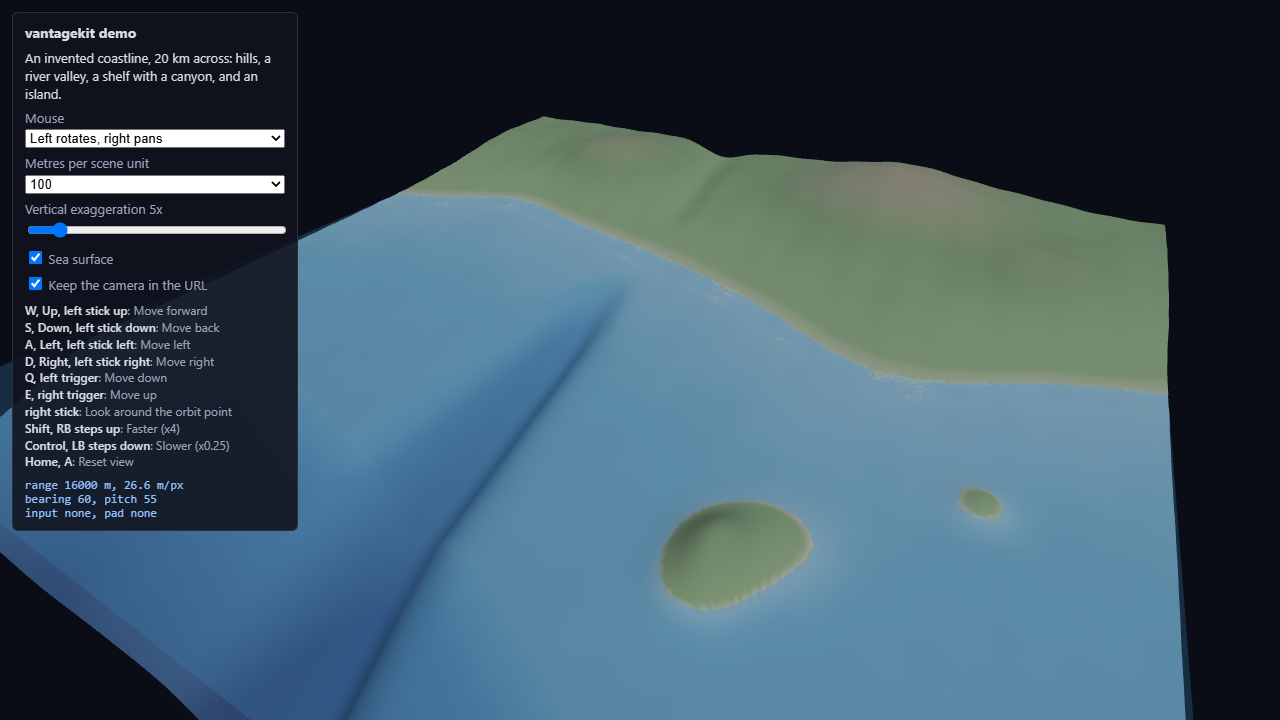
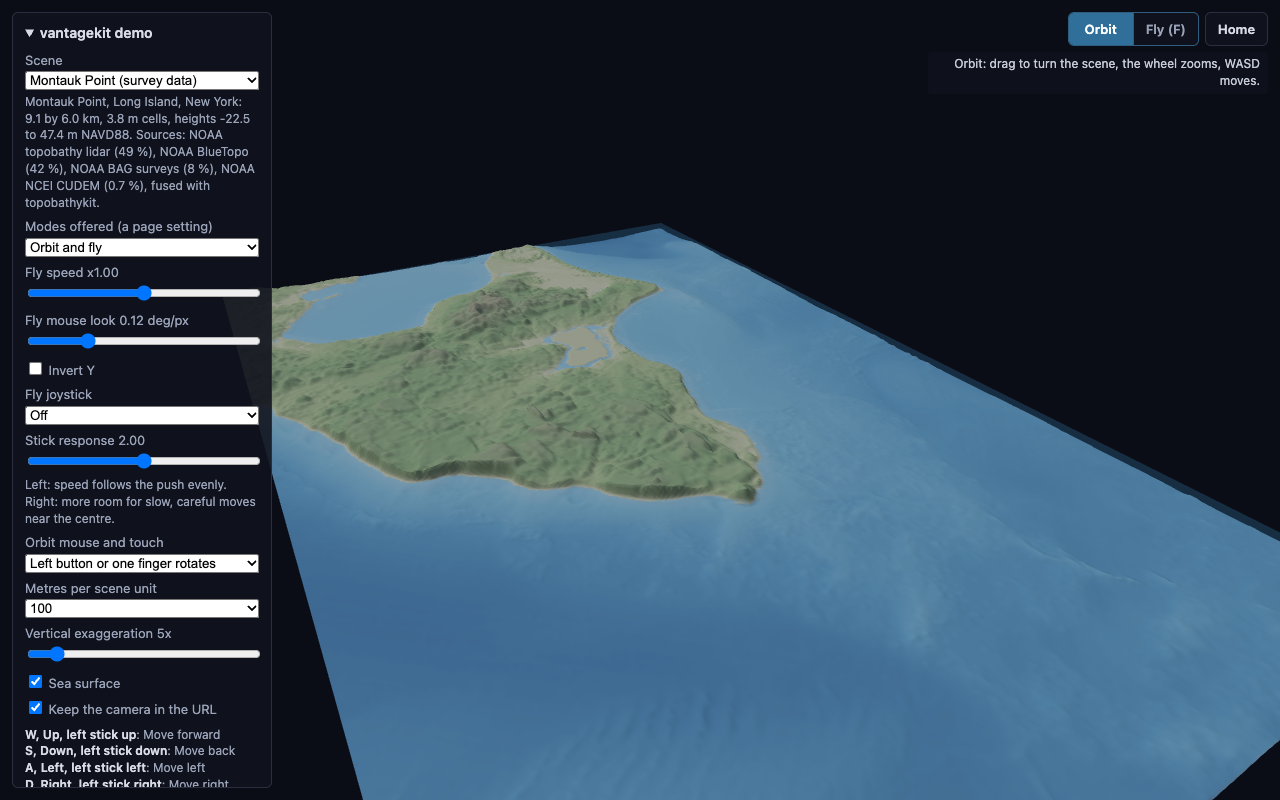
feat(demo): Montauk Point survey data as the default scene
The demo now opens on a 9.1 by 6.0 km topobathymetric grid of Montauk
Point, Long Island, at 3.8 m: NOAA topobathy lidar, BlueTopo, BAG
surveys and CUDEM fused with topobathykit, heights in NAVD88. The grid
is served for the demo by data.lhzn.io as gzip-compressed int16
centimetres with each row stored as its difference from the row above
(2.7 MB); the page decompresses it with DecompressionStream, so the
host needs no Content-Encoding. The mesh is decimated to about 800
vertices a side (400 on phones) and fly speed samples the full grid.
The Scene menu keeps the invented coastline, which is also the
fallback when the grid cannot load. ?dem= points the demo at another
grid in the same format.

Collaborated with Claude Code (Opus 5.5).

diff --git a/demo/index.html b/demo/index.html
@@ -51,7 +51,12 @@
 </div>
 <details id="panel" open>
   <summary>vantagekit demo</summary>
-  <div>An invented coastline, 20 km across: hills, a river valley, a shelf with a canyon, and an island.</div>
+  <label for="scene">Scene</label>
+  <select id="scene">
+    <option value="montauk">Montauk Point (survey data)</option>
+    <option value="invented">Invented coastline</option>
+  </select>
+  <div id="scene-about" class="hint"></div>
   <label for="modes">Modes offered (a page setting)</label>
   <select id="modes">
     <option value="orbit,fly">Orbit and fly</option>
@@ -102,10 +107,11 @@ import * as THREE from 'three';
 import CameraControls from 'camera-controls';
 import { createVantage } from '../vantagekit-three.js';
 
-const ORIGIN = { lon: -70.5, lat: 42.5 };   // an arbitrary open-ocean point
-const SPAN_M = 20000;
-const N = 256;
 const params = new URLSearchParams(location.search);
+// The Montauk Point elevation grid, served for this demo by data.lhzn.io: <DEM_URL>.json (geometry,
+// datum, sources, encoding) names the data file beside it. ?dem= points the demo at another grid in
+// that format, for example a local copy.
+const DEM_URL = params.get('dem') || 'https://data.lhzn.io/vantagekit/montauk-5m';
 const sel = (id) => document.getElementById(id);
 sel('mouse').value = params.get('mouse') || 'rotate-left';
 sel('scale').value = params.get('mpu') || '100';
@@ -157,7 +163,7 @@ function coastX(y) {   // the shoreline: a gentle bay and a headland
   return 2500 + 900 * Math.sin(y / 3200) - 1100 * gauss(y + 5200, 1700) + 700 * gauss(y - 6500, 1200);
 }
 
-function heightAt(x, y) {
+function inventedHeight(x, y) {
   const d = x - coastX(y);                  // metres inland (+) or offshore (-)
   if (d >= 0) {
     // Land: a beach rising into rolling hills, cut by a river valley.
@@ -183,9 +189,96 @@ function heightAt(x, y) {
   return z + 1.5 * texture(x, y);
 }
 
-// Colours: greens to tans on land, light to dark blue with depth (both by true height).
-const LAND = [[0, [0.80, 0.76, 0.58]], [6, [0.42, 0.58, 0.32]], [120, [0.33, 0.48, 0.26]], [260, [0.55, 0.47, 0.34]]];
-const SEA = [[0, [0.62, 0.80, 0.82]], [-25, [0.33, 0.62, 0.74]], [-120, [0.16, 0.38, 0.62]], [-450, [0.06, 0.13, 0.32]]];
+// ---- Terrains ------------------------------------------------------------------------------
+// A terrain gives its origin, its extent in metres east and north, a mesh size, heightAt(east, north)
+// in metres about the origin, colour ramps by true height, a home view, and text for the panel.
+
+const INVENTED = {
+  key: 'invented',
+  origin: { lon: -70.5, lat: 42.5 },   // an arbitrary open-ocean point
+  spanE: 20000, spanN: 20000, nE: 256, nN: 256,
+  heightAt: inventedHeight,
+  land: [[0, [0.80, 0.76, 0.58]], [6, [0.42, 0.58, 0.32]], [120, [0.33, 0.48, 0.26]], [260, [0.55, 0.47, 0.34]]],
+  sea: [[0, [0.62, 0.80, 0.82]], [-25, [0.33, 0.62, 0.74]], [-120, [0.16, 0.38, 0.62]], [-450, [0.06, 0.13, 0.32]]],
+  // from offshore in the south-west, looking north-east toward the coast
+  home: { bearingDeg: 60, elevationDeg: 35, factor: 0.8 },
+  about: 'An invented coastline, 20 km across: hills, a river valley, a shelf with a canyon, and an island.',
+};
+
+const SOURCE_NAMES = {
+  noaa_bluetopo: 'NOAA BlueTopo', noaa_topobathy: 'NOAA topobathy lidar', ncei_bag: 'NOAA BAG surveys',
+  ncei_cudem: 'NOAA NCEI CUDEM', usgs_lidar: 'USGS lidar', usgs_3dep: 'USGS 3DEP', gebco_2025: 'GEBCO 2025',
+};
+
+// Fetch a gridded DEM and wrap it as a terrain. The mesh is a decimated copy (at most about 800
+// vertices a side, 400 on phones); heightAt samples the full grid, bilinearly.
+async function loadDem(url) {
+  const jsonUrl = new URL(url + '.json', location.href);
+  const meta = await fetch(jsonUrl).then((r) => { if (!r.ok) throw new Error(`${jsonUrl}: ${r.status}`); return r.json(); });
+  const e = meta.encoding;
+  const dataUrl = new URL(meta.files?.data ?? (url.split('/').pop() + '.bin'), jsonUrl);
+  const res = await fetch(dataUrl);
+  if (!res.ok) throw new Error(`${dataUrl}: ${res.status}`);
+  // gzip is undone here, not by the server's Content-Encoding, so any static host can serve it
+  const body = e.compression === 'gzip' ? res.body.pipeThrough(new DecompressionStream('gzip')) : res.body;
+  const buf = await new Response(body).arrayBuffer();
+  const W = meta.width, H = meta.height;
+  const q = new Int16Array(buf);
+  if (q.length !== W * H) throw new Error(`${dataUrl}: expected ${W * H} cells, got ${q.length}`);
+  // Rows stored as differences from the row above: add them back (Int16Array wraps, as the packer did).
+  if (e.row_delta) for (let i = W; i < q.length; i++) q[i] += q[i - W];
+  const z = new Float32Array(W * H);
+  for (let i = 0; i < z.length; i++) z[i] = q[i] === e.nodata ? 0 : q[i] * e.scale_m;
+  const dx = meta.cell_m.x, dy = meta.cell_m.y;
+  const spanE = (W - 1) * dx, spanN = (H - 1) * dy;
+  const heightAt = (east, north) => {
+    const c = Math.min(W - 1.001, Math.max(0, (east + spanE / 2) / dx));
+    const r = Math.min(H - 1.001, Math.max(0, (spanN / 2 - north) / dy));
+    const c0 = Math.floor(c), r0 = Math.floor(r), fc = c - c0, fr = r - r0;
+    const i = r0 * W + c0;
+    return (z[i] * (1 - fc) + z[i + 1] * fc) * (1 - fr) + (z[i + W] * (1 - fc) + z[i + W + 1] * fc) * fr;
+  };
+  const step = Math.ceil(Math.max(W, H) / (touchFirst ? 400 : 800));
+  const pct = (f) => (f >= 0.01 ? Math.round(f * 100) + ' %' : (f * 100).toFixed(1) + ' %');
+  const credit = Object.entries(meta.source_fraction || {})
+    .map(([k, f]) => `${SOURCE_NAMES[k] || k} (${pct(f)})`).join(', ');
+  return {
+    key: 'montauk',
+    origin: { lon: (meta.west + meta.east) / 2, lat: (meta.north + meta.south) / 2 },
+    spanE, spanN, nE: Math.floor((W - 1) / step) + 1, nN: Math.floor((H - 1) / step) + 1,
+    heightAt,
+    land: [[0, [0.80, 0.76, 0.58]], [3, [0.55, 0.64, 0.38]], [15, [0.38, 0.54, 0.30]], [48, [0.52, 0.47, 0.36]]],
+    sea: [[0, [0.62, 0.80, 0.82]], [-4, [0.42, 0.68, 0.78]], [-12, [0.22, 0.46, 0.66]], [-24, [0.10, 0.22, 0.44]]],
+    // from offshore in the south-east, looking north-west at the point
+    home: { bearingDeg: 300, elevationDeg: 30, factor: 0.75 },
+    about: `${meta.name}: ${(spanE / 1000).toFixed(1)} by ${(spanN / 1000).toFixed(1)} km, ` +
+      `${meta.cell_m.x.toFixed(1)} m cells, heights ${meta.range_m[0].toFixed(1)} to ${meta.range_m[1].toFixed(1)} m ` +
+      `${meta.vertical_datum}. Sources: ${credit}, fused with topobathykit.`,
+  };
+}
+
+let terrain = INVENTED;
+let terrainNote = '';
+const demCache = {};
+async function setTerrain(key) {
+  terrainNote = '';
+  if (key === 'montauk') {
+    try {
+      sel('scene-about').textContent = 'Loading the Montauk Point elevation grid...';
+      terrain = demCache[DEM_URL] || (demCache[DEM_URL] = await loadDem(DEM_URL));
+    } catch (err) {
+      console.warn('vantagekit demo: survey grid unavailable, using the invented coastline', err);
+      terrain = INVENTED;
+      terrainNote = 'The Montauk Point grid did not load, so this is the invented coastline. ';
+    }
+  } else {
+    terrain = INVENTED;
+  }
+  sel('scene').value = terrain.key;
+  sel('scene-about').textContent = terrainNote + terrain.about;
+}
+const heightAt = (east, north) => terrain.heightAt(east, north);
+
 function ramp(stops, h) {
   for (let i = 1; i < stops.length; i++) {
     const [h0, c0] = stops[i - 1], [h1, c1] = stops[i];
@@ -202,14 +295,15 @@ function build() {
   const mpu = +sel('scale').value, exag = +sel('exag').value;
   if (mesh) { scene.remove(mesh); mesh.geometry.dispose(); }
   if (sea) { scene.remove(sea); sea.geometry.dispose(); }
-  const g = new THREE.PlaneGeometry(SPAN_M / mpu, SPAN_M / mpu, N - 1, N - 1);
+  const t = terrain;
+  const g = new THREE.PlaneGeometry(t.spanE / mpu, t.spanN / mpu, t.nE - 1, t.nN - 1);
   g.rotateX(-Math.PI / 2);
   const pos = g.attributes.position;
   const col = new Float32Array(pos.count * 3);
   for (let i = 0; i < pos.count; i++) {
     const h = heightAt(pos.getX(i) * mpu, -pos.getZ(i) * mpu);
     pos.setY(i, (h * exag) / mpu);
-    col.set(h >= 0 ? ramp(LAND, h) : ramp(SEA, h), i * 3);
+    col.set(h >= 0 ? ramp(t.land, h) : ramp(t.sea, h), i * 3);
   }
   g.setAttribute('color', new THREE.BufferAttribute(col, 3));
   g.computeVertexNormals();
@@ -217,7 +311,7 @@ function build() {
   scene.add(mesh);
   // Sea surface at 0 m: translucent, so the seabed shows through and you can dive under it.
   sea = new THREE.Mesh(
-    new THREE.PlaneGeometry(SPAN_M / mpu, SPAN_M / mpu).rotateX(-Math.PI / 2),
+    new THREE.PlaneGeometry(t.spanE / mpu, t.spanN / mpu).rotateX(-Math.PI / 2),
     new THREE.MeshBasicMaterial({ color: 0x3a7fb0, transparent: true, opacity: 0.28, depthWrite: false, side: THREE.DoubleSide }),
   );
   sea.visible = sel('sea').checked;
@@ -237,7 +331,7 @@ function makeNav() {
   const mode = modes.includes(startMode) ? startMode : modes[0];
   nav = createVantage({
     THREE, CameraControls, camera, dom: canvas,
-    origin: ORIGIN, metresPerUnit: mpu,
+    origin: terrain.origin, metresPerUnit: mpu,
     exaggeration: () => builtExag,
     modes, mode,
     settingsKey: 'vantagekit-demo.fly',
@@ -249,6 +343,7 @@ function makeNav() {
     link: sel('link').checked && {
       app: {
         write(p) {
+          p.set('scene', terrain.key);
           p.set('modes', sel('modes').value);
           p.set('mode', nav.mode);
           p.set('mouse', sel('mouse').value);
@@ -308,9 +403,9 @@ function showMode() {
 }
 
 let lastInput = 'none', padName = 'none';
-// Home: from offshore in the south-west, looking north-east toward the coast.
+// Home: each terrain's own starting view.
 function frameHome() {
-  nav.fitBox(new THREE.Box3().setFromObject(mesh), { bearingDeg: 60, elevationDeg: 35, factor: 0.8 });
+  nav.fitBox(new THREE.Box3().setFromObject(mesh), terrain.home);
   nav.saveHome();
 }
 function frame() {
@@ -356,6 +451,16 @@ sel('exag').addEventListener('input', () => {
   nav.writeLink();
 });
 sel('sea').addEventListener('change', () => { sea.visible = sel('sea').checked; });
+// A new terrain has a new origin and extent: rebuild everything and start from its home view.
+sel('scene').addEventListener('change', async () => {
+  startMode = nav.mode;
+  await setTerrain(sel('scene').value);
+  build();
+  makeNav();
+  frameHome();
+  nav.applyLink();
+  nav.writeLink();
+});
 sel('link').addEventListener('change', () => remake());
 
 function resize() {
@@ -367,6 +472,7 @@ function resize() {
 addEventListener('resize', resize);
 
 resize();   // before framing: fitBox reads the aspect ratio
+await setTerrain(params.get('scene') === 'invented' ? 'invented' : 'montauk');
 frame();
 const clock = new THREE.Clock();
 let frames = 0;

diff --git a/README.md b/README.md
@@ -1,8 +1,8 @@
 # vantagekit
 
-![The vantagekit demo: an invented 20 km coastline at 5x vertical exaggeration, with hills and a river valley on land, a translucent sea surface, a shelf cut by a submarine canyon, and an offshore island](docs/demo.png)
+![The vantagekit demo: Montauk Point, Long Island, at 5x vertical exaggeration, from offshore in the south-east, with the bluffs, Oyster Pond and the shoals east of the point, and the side panel listing the data sources and bindings](docs/demo.png)
 
-*The demo page, an invented coastline built in the page with no data service. The side panel lists the bindings and the live range, metres per pixel, bearing and pitch.*
+*The demo page on Montauk Point, Long Island: a 9.1 by 6.0 km topobathymetric grid at 3.8 m from NOAA survey data, served for the demo by [data.lhzn.io](https://data.lhzn.io). The Scene menu also offers an invented coastline built in the page with no data service. The side panel lists the sources, the bindings, and the live range, metres per pixel, bearing and pitch.*
 
 **[Open the live demo](https://lhzn-io.github.io/vantagekit/demo/)** (mouse, keyboard, gamepad or
 touch). `?mode=fly` starts in fly mode. A [MapLibre demo](https://lhzn-io.github.io/vantagekit/demo/maplibre.html)
